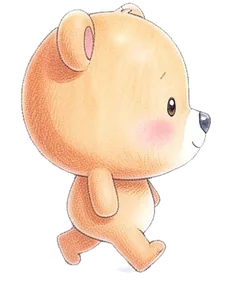
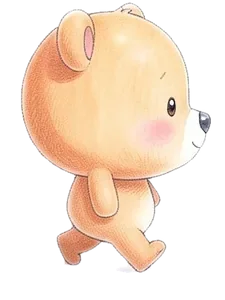
Miniroom: side walk crosses legs (near leg forward, pass, far leg forward, pass)

Changed region(s): [[0.2489, 0.81, 0.4356, 0.9]]

diff --git a/public/js/views.js b/public/js/views.js
@@ -32,31 +32,31 @@ const DRAWN_EYES = {
 // 미니룸 전신 캐릭터: 앞(f)·옆(s, 오른쪽을 봄)·뒤(b) × 서 있기(0)·걷기 두 장(a, b). 모두 같은 캔버스라 바꿔 끼워도 자리가 같다
 //   fit: 앞모습 꾸미기 자리(얼굴 그림과 같은 순서), head: 보기마다 머리 가운데·폭, hand: 보기마다 손 끝 (그림 너비·높이에 대한 비율)
 const MR_BODY = {
-  '🐰': {"w": 184, "h": 300, "img": {"f0": "img/room/c-1f430-f0.webp?v=1126b", "fa": "img/room/c-1f430-fa.webp?v=1126b", "fb": "img/room/c-1f430-fb.webp?v=1126b", "s0": "img/room/c-1f430-s0.webp?v=1126b", "sa": "img/room/c-1f430-sa.webp?v=1126b", "sb": "img/room/c-1f430-sb.webp?v=1126b", "b0": "img/room/c-1f430-b0.webp?v=1126b", "ba": "img/room/c-1f430-ba.webp?v=1126b", "bb": "img/room/c-1f430-bb.webp?v=1126b"}, "fit": [0.512, 0.325, 0.845, 0.514, 0.664], "head": {"front": [0.512, 0.845], "side": [0.546, 0.849], "back": [0.514, 0.841]}, "eyes": [0.314, 0.511, 0.693, 0.51, 0.036], "hand": {"front": [0.932, 0.81], "side": [0.707, 0.81], "back": [0.902, 0.81]}},
-  '🐻': {"w": 223, "h": 300, "img": {"f0": "img/room/c-1f43b-f0.webp?v=1126b", "fa": "img/room/c-1f43b-fa.webp?v=1126b", "fb": "img/room/c-1f43b-fb.webp?v=1126b", "s0": "img/room/c-1f43b-s0.webp?v=1126b", "sa": "img/room/c-1f43b-sa.webp?v=1126b", "sb": "img/room/c-1f43b-sb.webp?v=1126b", "b0": "img/room/c-1f43b-b0.webp?v=1126b", "ba": "img/room/c-1f43b-ba.webp?v=1126b", "bb": "img/room/c-1f43b-bb.webp?v=1126b"}, "fit": [0.479, 0.001, 0.91, 0.374, 0.654], "head": {"front": [0.479, 0.91], "side": [0.484, 0.907], "back": [0.486, 0.896]}, "eyes": [0.311, 0.383, 0.694, 0.379, 0.048], "hand": {"front": [0.918, 0.769], "side": [0.687, 0.769], "back": [0.885, 0.769]}},
-  '🦊': {"w": 238, "h": 300, "img": {"f0": "img/room/c-1f98a-f0.webp?v=1126b", "fa": "img/room/c-1f98a-fa.webp?v=1126b", "fb": "img/room/c-1f98a-fb.webp?v=1126b", "s0": "img/room/c-1f98a-s0.webp?v=1126b", "sa": "img/room/c-1f98a-sa.webp?v=1126b", "sb": "img/room/c-1f98a-sb.webp?v=1126b", "b0": "img/room/c-1f98a-b0.webp?v=1126b", "ba": "img/room/c-1f98a-ba.webp?v=1126b", "bb": "img/room/c-1f98a-bb.webp?v=1126b"}, "fit": [0.529, 0.144, 0.827, 0.45, 0.68], "head": {"front": [0.529, 0.827], "side": [0.613, 0.743], "back": [0.529, 0.827]}, "eyes": [0.386, 0.446, 0.685, 0.44, 0.029], "hand": {"front": [0.874, 0.78], "side": [0.664, 0.78], "back": [0.841, 0.78]}},
-  '🐼': {"w": 229, "h": 300, "img": {"f0": "img/room/c-1f43c-f0.webp?v=1126b", "fa": "img/room/c-1f43c-fa.webp?v=1126b", "fb": "img/room/c-1f43c-fb.webp?v=1126b", "s0": "img/room/c-1f43c-s0.webp?v=1126b", "sa": "img/room/c-1f43c-sa.webp?v=1126b", "sb": "img/room/c-1f43c-sb.webp?v=1126b", "b0": "img/room/c-1f43c-b0.webp?v=1126b", "ba": "img/room/c-1f43c-ba.webp?v=1126b", "bb": "img/room/c-1f43c-bb.webp?v=1126b"}, "fit": [0.519, 0.041, 0.879, 0.376, 0.621], "head": {"front": [0.519, 0.879], "side": [0.539, 0.879], "back": [0.521, 0.876]}, "eyes": [0.351, 0.377, 0.672, 0.377, 0.04], "hand": {"front": [0.932, 0.759], "side": [0.69, 0.759], "back": [0.899, 0.759]}},
-  '🐯': {"w": 237, "h": 300, "img": {"f0": "img/room/c-1f42f-f0.webp?v=1126b", "fa": "img/room/c-1f42f-fa.webp?v=1126b", "fb": "img/room/c-1f42f-fb.webp?v=1126b", "s0": "img/room/c-1f42f-s0.webp?v=1126b", "sa": "img/room/c-1f42f-sa.webp?v=1126b", "sb": "img/room/c-1f42f-sb.webp?v=1126b", "b0": "img/room/c-1f42f-b0.webp?v=1126b", "ba": "img/room/c-1f42f-ba.webp?v=1126b", "bb": "img/room/c-1f42f-bb.webp?v=1126b"}, "fit": [0.514, 0.031, 0.924, 0.361, 0.657], "head": {"front": [0.514, 0.924], "side": [0.498, 0.86], "back": [0.517, 0.924]}, "eyes": [0.354, 0.368, 0.685, 0.361, 0.052], "hand": {"front": [0.885, 0.782], "side": [0.684, 0.782], "back": [0.854, 0.782]}},
-  '🐨': {"w": 276, "h": 300, "img": {"f0": "img/room/c-1f428-f0.webp?v=1126b", "fa": "img/room/c-1f428-fa.webp?v=1126b", "fb": "img/room/c-1f428-fb.webp?v=1126b", "s0": "img/room/c-1f428-s0.webp?v=1126b", "sa": "img/room/c-1f428-sa.webp?v=1126b", "sb": "img/room/c-1f428-sb.webp?v=1126b", "b0": "img/room/c-1f428-b0.webp?v=1126b", "ba": "img/room/c-1f428-ba.webp?v=1126b", "bb": "img/room/c-1f428-bb.webp?v=1126b"}, "fit": [0.495, 0.079, 0.619, 0.4, 0.628], "head": {"front": [0.495, 0.619], "side": [0.629, 0.543], "back": [0.495, 0.615]}, "eyes": [0.351, 0.403, 0.637, 0.401, 0.027], "hand": {"front": [0.774, 0.791], "side": [0.573, 0.791], "back": [0.732, 0.791]}},
-  '🐸': {"w": 316, "h": 300, "img": {"f0": "img/room/c-1f438-f0.webp?v=1126b", "fa": "img/room/c-1f438-fa.webp?v=1126b", "fb": "img/room/c-1f438-fb.webp?v=1126b", "s0": "img/room/c-1f438-s0.webp?v=1126b", "sa": "img/room/c-1f438-sa.webp?v=1126b", "sb": "img/room/c-1f438-sb.webp?v=1126b", "b0": "img/room/c-1f438-b0.webp?v=1126b", "ba": "img/room/c-1f438-ba.webp?v=1126b", "bb": "img/room/c-1f438-bb.webp?v=1126b"}, "fit": [0.495, -0.102, 0.635, 0.132, 0.645], "head": {"front": [0.495, 0.635], "side": [0.53, 0.267], "back": [0.482, 0.672]}, "eyes": [0.281, 0.114, 0.714, 0.114, 0.06], "hand": {"front": [0.839, 0.754], "side": [0.613, 0.754], "back": [0.794, 0.754]}},
-  '🦁': {"w": 219, "h": 300, "img": {"f0": "img/room/c-1f981-f0.webp?v=1126b", "fa": "img/room/c-1f981-fa.webp?v=1126b", "fb": "img/room/c-1f981-fb.webp?v=1126b", "s0": "img/room/c-1f981-s0.webp?v=1126b", "sa": "img/room/c-1f981-sa.webp?v=1126b", "sb": "img/room/c-1f981-sb.webp?v=1126b", "b0": "img/room/c-1f981-b0.webp?v=1126b", "ba": "img/room/c-1f981-ba.webp?v=1126b", "bb": "img/room/c-1f981-bb.webp?v=1126b"}, "fit": [0.495, 0.052, 0.82, 0.399, 0.699], "head": {"front": [0.495, 0.82], "side": [0.471, 0.681], "back": [0.504, 0.805]}, "eyes": [0.363, 0.403, 0.629, 0.402, 0.036], "hand": {"front": [0.882, 0.597], "side": [0.68, 0.597], "back": [0.826, 0.597]}},
-  '🐧': {"w": 254, "h": 300, "img": {"f0": "img/room/c-1f427-f0.webp?v=1126b", "fa": "img/room/c-1f427-fa.webp?v=1126b", "fb": "img/room/c-1f427-fb.webp?v=1126b", "s0": "img/room/c-1f427-s0.webp?v=1126b", "sa": "img/room/c-1f427-sa.webp?v=1126b", "sb": "img/room/c-1f427-sb.webp?v=1126b", "b0": "img/room/c-1f427-b0.webp?v=1126b", "ba": "img/room/c-1f427-ba.webp?v=1126b", "bb": "img/room/c-1f427-bb.webp?v=1126b"}, "fit": [0.482, 0.014, 0.783, 0.345, 0.619], "head": {"front": [0.482, 0.783], "side": [0.516, 0.836], "back": [0.481, 0.78]}, "eyes": [0.303, 0.351, 0.692, 0.346, 0.03], "hand": {"front": [0.956, 0.72], "side": [0.693, 0.72], "back": [0.926, 0.72]}},
-  '🦄': {"w": 240, "h": 300, "img": {"f0": "img/room/c-1f984-f0.webp?v=1126b", "fa": "img/room/c-1f984-fa.webp?v=1126b", "fb": "img/room/c-1f984-fb.webp?v=1126b", "s0": "img/room/c-1f984-s0.webp?v=1126b", "sa": "img/room/c-1f984-sa.webp?v=1126b", "sb": "img/room/c-1f984-sb.webp?v=1126b", "b0": "img/room/c-1f984-b0.webp?v=1126b", "ba": "img/room/c-1f984-ba.webp?v=1126b", "bb": "img/room/c-1f984-bb.webp?v=1126b"}, "fit": [0.45, 0.214, 0.761, 0.487, 0.761], "head": {"front": [0.45, 0.761], "side": [0.47, 0.71], "back": [0.472, 0.693]}, "eyes": [0.3, 0.532, 0.616, 0.52, 0.032], "hand": {"front": [0.813, 0.798], "side": [0.606, 0.798], "back": [0.767, 0.798]}},
+  '🐰': {"w": 184, "h": 300, "img": {"f0": "img/room/c-1f430-f0.webp?v=1126c", "fa": "img/room/c-1f430-fa.webp?v=1126c", "fb": "img/room/c-1f430-fb.webp?v=1126c", "s0": "img/room/c-1f430-s0.webp?v=1126c", "sa": "img/room/c-1f430-sa.webp?v=1126c", "sb": "img/room/c-1f430-sb.webp?v=1126c", "sc": "img/room/c-1f430-sc.webp?v=1126c", "b0": "img/room/c-1f430-b0.webp?v=1126c", "ba": "img/room/c-1f430-ba.webp?v=1126c", "bb": "img/room/c-1f430-bb.webp?v=1126c"}, "fit": [0.512, 0.325, 0.845, 0.514, 0.664], "head": {"front": [0.512, 0.845], "side": [0.546, 0.849], "back": [0.514, 0.841]}, "eyes": [0.314, 0.511, 0.693, 0.51, 0.036], "hand": {"front": [0.932, 0.81], "side": [0.707, 0.81], "back": [0.902, 0.81]}},
+  '🐻': {"w": 223, "h": 300, "img": {"f0": "img/room/c-1f43b-f0.webp?v=1126c", "fa": "img/room/c-1f43b-fa.webp?v=1126c", "fb": "img/room/c-1f43b-fb.webp?v=1126c", "s0": "img/room/c-1f43b-s0.webp?v=1126c", "sa": "img/room/c-1f43b-sa.webp?v=1126c", "sb": "img/room/c-1f43b-sb.webp?v=1126c", "sc": "img/room/c-1f43b-sc.webp?v=1126c", "b0": "img/room/c-1f43b-b0.webp?v=1126c", "ba": "img/room/c-1f43b-ba.webp?v=1126c", "bb": "img/room/c-1f43b-bb.webp?v=1126c"}, "fit": [0.479, 0.001, 0.91, 0.374, 0.654], "head": {"front": [0.479, 0.91], "side": [0.484, 0.907], "back": [0.486, 0.896]}, "eyes": [0.311, 0.383, 0.694, 0.379, 0.048], "hand": {"front": [0.918, 0.769], "side": [0.687, 0.769], "back": [0.885, 0.769]}},
+  '🦊': {"w": 238, "h": 300, "img": {"f0": "img/room/c-1f98a-f0.webp?v=1126c", "fa": "img/room/c-1f98a-fa.webp?v=1126c", "fb": "img/room/c-1f98a-fb.webp?v=1126c", "s0": "img/room/c-1f98a-s0.webp?v=1126c", "sa": "img/room/c-1f98a-sa.webp?v=1126c", "sb": "img/room/c-1f98a-sb.webp?v=1126c", "sc": "img/room/c-1f98a-sc.webp?v=1126c", "b0": "img/room/c-1f98a-b0.webp?v=1126c", "ba": "img/room/c-1f98a-ba.webp?v=1126c", "bb": "img/room/c-1f98a-bb.webp?v=1126c"}, "fit": [0.529, 0.144, 0.827, 0.45, 0.68], "head": {"front": [0.529, 0.827], "side": [0.613, 0.743], "back": [0.529, 0.827]}, "eyes": [0.386, 0.446, 0.685, 0.44, 0.029], "hand": {"front": [0.874, 0.78], "side": [0.664, 0.78], "back": [0.841, 0.78]}},
+  '🐼': {"w": 229, "h": 300, "img": {"f0": "img/room/c-1f43c-f0.webp?v=1126c", "fa": "img/room/c-1f43c-fa.webp?v=1126c", "fb": "img/room/c-1f43c-fb.webp?v=1126c", "s0": "img/room/c-1f43c-s0.webp?v=1126c", "sa": "img/room/c-1f43c-sa.webp?v=1126c", "sb": "img/room/c-1f43c-sb.webp?v=1126c", "sc": "img/room/c-1f43c-sc.webp?v=1126c", "b0": "img/room/c-1f43c-b0.webp?v=1126c", "ba": "img/room/c-1f43c-ba.webp?v=1126c", "bb": "img/room/c-1f43c-bb.webp?v=1126c"}, "fit": [0.519, 0.041, 0.879, 0.376, 0.621], "head": {"front": [0.519, 0.879], "side": [0.539, 0.879], "back": [0.521, 0.876]}, "eyes": [0.351, 0.377, 0.672, 0.377, 0.04], "hand": {"front": [0.932, 0.759], "side": [0.69, 0.759], "back": [0.899, 0.759]}},
+  '🐯': {"w": 237, "h": 300, "img": {"f0": "img/room/c-1f42f-f0.webp?v=1126c", "fa": "img/room/c-1f42f-fa.webp?v=1126c", "fb": "img/room/c-1f42f-fb.webp?v=1126c", "s0": "img/room/c-1f42f-s0.webp?v=1126c", "sa": "img/room/c-1f42f-sa.webp?v=1126c", "sb": "img/room/c-1f42f-sb.webp?v=1126c", "sc": "img/room/c-1f42f-sc.webp?v=1126c", "b0": "img/room/c-1f42f-b0.webp?v=1126c", "ba": "img/room/c-1f42f-ba.webp?v=1126c", "bb": "img/room/c-1f42f-bb.webp?v=1126c"}, "fit": [0.514, 0.031, 0.924, 0.361, 0.657], "head": {"front": [0.514, 0.924], "side": [0.498, 0.86], "back": [0.517, 0.924]}, "eyes": [0.354, 0.368, 0.685, 0.361, 0.052], "hand": {"front": [0.885, 0.782], "side": [0.684, 0.782], "back": [0.854, 0.782]}},
+  '🐨': {"w": 276, "h": 300, "img": {"f0": "img/room/c-1f428-f0.webp?v=1126c", "fa": "img/room/c-1f428-fa.webp?v=1126c", "fb": "img/room/c-1f428-fb.webp?v=1126c", "s0": "img/room/c-1f428-s0.webp?v=1126c", "sa": "img/room/c-1f428-sa.webp?v=1126c", "sb": "img/room/c-1f428-sb.webp?v=1126c", "sc": "img/room/c-1f428-sc.webp?v=1126c", "b0": "img/room/c-1f428-b0.webp?v=1126c", "ba": "img/room/c-1f428-ba.webp?v=1126c", "bb": "img/room/c-1f428-bb.webp?v=1126c"}, "fit": [0.495, 0.079, 0.619, 0.4, 0.628], "head": {"front": [0.495, 0.619], "side": [0.629, 0.543], "back": [0.495, 0.615]}, "eyes": [0.351, 0.403, 0.637, 0.401, 0.027], "hand": {"front": [0.774, 0.791], "side": [0.573, 0.791], "back": [0.732, 0.791]}},
+  '🐸': {"w": 316, "h": 300, "img": {"f0": "img/room/c-1f438-f0.webp?v=1126c", "fa": "img/room/c-1f438-fa.webp?v=1126c", "fb": "img/room/c-1f438-fb.webp?v=1126c", "s0": "img/room/c-1f438-s0.webp?v=1126c", "sa": "img/room/c-1f438-sa.webp?v=1126c", "sb": "img/room/c-1f438-sb.webp?v=1126c", "sc": "img/room/c-1f438-sc.webp?v=1126c", "b0": "img/room/c-1f438-b0.webp?v=1126c", "ba": "img/room/c-1f438-ba.webp?v=1126c", "bb": "img/room/c-1f438-bb.webp?v=1126c"}, "fit": [0.495, -0.102, 0.635, 0.132, 0.645], "head": {"front": [0.495, 0.635], "side": [0.53, 0.267], "back": [0.482, 0.672]}, "eyes": [0.281, 0.114, 0.714, 0.114, 0.06], "hand": {"front": [0.839, 0.754], "side": [0.613, 0.754], "back": [0.794, 0.754]}},
+  '🦁': {"w": 219, "h": 300, "img": {"f0": "img/room/c-1f981-f0.webp?v=1126c", "fa": "img/room/c-1f981-fa.webp?v=1126c", "fb": "img/room/c-1f981-fb.webp?v=1126c", "s0": "img/room/c-1f981-s0.webp?v=1126c", "sa": "img/room/c-1f981-sa.webp?v=1126c", "sb": "img/room/c-1f981-sb.webp?v=1126c", "sc": "img/room/c-1f981-sc.webp?v=1126c", "b0": "img/room/c-1f981-b0.webp?v=1126c", "ba": "img/room/c-1f981-ba.webp?v=1126c", "bb": "img/room/c-1f981-bb.webp?v=1126c"}, "fit": [0.495, 0.052, 0.82, 0.399, 0.699], "head": {"front": [0.495, 0.82], "side": [0.471, 0.681], "back": [0.504, 0.805]}, "eyes": [0.363, 0.403, 0.629, 0.402, 0.036], "hand": {"front": [0.882, 0.597], "side": [0.68, 0.597], "back": [0.826, 0.597]}},
+  '🐧': {"w": 254, "h": 300, "img": {"f0": "img/room/c-1f427-f0.webp?v=1126c", "fa": "img/room/c-1f427-fa.webp?v=1126c", "fb": "img/room/c-1f427-fb.webp?v=1126c", "s0": "img/room/c-1f427-s0.webp?v=1126c", "sa": "img/room/c-1f427-sa.webp?v=1126c", "sb": "img/room/c-1f427-sb.webp?v=1126c", "sc": "img/room/c-1f427-sc.webp?v=1126c", "b0": "img/room/c-1f427-b0.webp?v=1126c", "ba": "img/room/c-1f427-ba.webp?v=1126c", "bb": "img/room/c-1f427-bb.webp?v=1126c"}, "fit": [0.482, 0.014, 0.783, 0.345, 0.619], "head": {"front": [0.482, 0.783], "side": [0.516, 0.836], "back": [0.481, 0.78]}, "eyes": [0.303, 0.351, 0.692, 0.346, 0.03], "hand": {"front": [0.956, 0.72], "side": [0.693, 0.72], "back": [0.926, 0.72]}},
+  '🦄': {"w": 240, "h": 300, "img": {"f0": "img/room/c-1f984-f0.webp?v=1126c", "fa": "img/room/c-1f984-fa.webp?v=1126c", "fb": "img/room/c-1f984-fb.webp?v=1126c", "s0": "img/room/c-1f984-s0.webp?v=1126c", "sa": "img/room/c-1f984-sa.webp?v=1126c", "sb": "img/room/c-1f984-sb.webp?v=1126c", "sc": "img/room/c-1f984-sc.webp?v=1126c", "b0": "img/room/c-1f984-b0.webp?v=1126c", "ba": "img/room/c-1f984-ba.webp?v=1126c", "bb": "img/room/c-1f984-bb.webp?v=1126c"}, "fit": [0.45, 0.214, 0.761, 0.487, 0.761], "head": {"front": [0.45, 0.761], "side": [0.47, 0.71], "back": [0.472, 0.693]}, "eyes": [0.3, 0.532, 0.616, 0.52, 0.032], "hand": {"front": [0.813, 0.798], "side": [0.606, 0.798], "back": [0.767, 0.798]}},
 };
 // 손 아이템을 쥐는 자리 (아이템 그림에 대한 비율, style.css 의 .paw 자리와 같다)
 const MR_GRIP = { 'acc-lollipop': [50, 70], 'acc-wand': [62, 66], 'acc-balloon': [50, 92], 'acc-teddy': [18, 58], 'acc-icecream': [50, 80], 'acc-sunflower': [50, 74], 'acc-bubbles': [14, 88] };
 // 걷기 그림마다: 머리 가운데 x · 머리 꼭대기 y · 머리 폭 · 목 y · 오른쪽 손 끝 x, y · (안 씀) · 왼쪽 손 끝 x, y · 가슴 앞 x · 머리 꼭대기 가운데 x (그림 비율)
 const MR_FRAMES = {
-  '🐰': {"f0": [0.482, 0.31, 0.807, 0.661, 0.921, 0.79, 0.62, 0.037, 0.783, 0.795, 0.479], "fa": [0.485, 0.31, 0.801, 0.661, 0.921, 0.793, 0.62, 0.049, 0.79, 0.795, 0.479], "fb": [0.491, 0.31, 0.801, 0.661, 0.921, 0.787, 0.62, 0.055, 0.787, 0.807, 0.491], "s0": [0.518, 0.31, 0.711, 0.661, 0.812, 0.68, 0.488, 0.158, 0.85, 0.819, 0.521], "sa": [0.515, 0.31, 0.717, 0.661, 0.824, 0.68, 0.506, 0.109, 0.83, 0.825, 0.518], "sb": [0.518, 0.31, 0.711, 0.661, 0.818, 0.68, 0.494, 0.164, 0.827, 0.819, 0.518], "b0": [0.485, 0.317, 0.813, 0.668, 0.921, 0.79, 0.608, 0.043, 0.783, 0.801, 0.479], "ba": [0.485, 0.303, 0.753, 0.654, 0.842, 0.737, 0.524, 0.127, 0.737, 0.813, 0.479], "bb": [0.485, 0.303, 0.753, 0.654, 0.842, 0.73, 0.524, 0.133, 0.73, 0.813, 0.491]},
-  '🐻': {"f0": [0.487, 0.043, 0.796, 0.645, 0.859, 0.733, 0.36, 0.114, 0.733, 0.836, 0.482], "fa": [0.487, 0.043, 0.796, 0.645, 0.859, 0.727, 0.364, 0.136, 0.723, 0.844, 0.484], "fb": [0.511, 0.043, 0.791, 0.645, 0.859, 0.723, 0.364, 0.136, 0.727, 0.844, 0.511], "s0": [0.471, 0.03, 0.711, 0.632, 0.704, 0.72, 0.391, 0.305, 0.713, 0.698, 0.462], "sa": [0.471, 0.03, 0.711, 0.632, 0.744, 0.693, 0.396, 0.261, 0.777, 0.738, 0.464], "sb": [0.471, 0.027, 0.711, 0.628, 0.708, 0.817, 0.4, 0.278, 0.79, 0.707, 0.467], "b0": [0.493, 0.043, 0.782, 0.645, 0.859, 0.733, 0.364, 0.132, 0.737, 0.836, 0.489], "ba": [0.5, 0.04, 0.716, 0.642, 0.828, 0.693, 0.564, 0.198, 0.69, 0.84, 0.602], "bb": [0.496, 0.04, 0.716, 0.642, 0.797, 0.69, 0.564, 0.167, 0.693, 0.813, 0.393]},
-  '🦊': {"f0": [0.531, 0.137, 0.825, 0.675, 0.848, 0.753, 0.825, 0.191, 0.76, 0.834, 0.515], "fa": [0.533, 0.137, 0.821, 0.675, 0.853, 0.767, 0.821, 0.195, 0.74, 0.834, 0.522], "fb": [0.52, 0.137, 0.821, 0.675, 0.857, 0.74, 0.821, 0.204, 0.753, 0.852, 0.531], "s0": [0.555, 0.137, 0.603, 0.675, 0.73, 0.92, 0.397, 0.073, 0.693, 0.729, 0.544], "sa": [0.557, 0.137, 0.598, 0.675, 0.761, 0.717, 0.402, 0.082, 0.693, 0.777, 0.546], "sb": [0.557, 0.137, 0.598, 0.675, 0.739, 0.837, 0.393, 0.248, 0.8, 0.677, 0.546], "b0": [0.531, 0.137, 0.825, 0.675, 0.848, 0.75, 0.825, 0.208, 0.757, 0.834, 0.52], "ba": [0.541, 0.133, 0.803, 0.672, 0.835, 0.727, 0.803, 0.252, 0.727, 0.838, 0.541], "bb": [0.511, 0.133, 0.803, 0.672, 0.8, 0.72, 0.803, 0.217, 0.73, 0.812, 0.511]},
-  '🐼': {"f0": [0.498, 0.053, 0.865, 0.631, 0.915, 0.76, 0.865, 0.081, 0.747, 0.87, 0.495], "fa": [0.498, 0.05, 0.874, 0.628, 0.91, 0.733, 0.874, 0.076, 0.747, 0.874, 0.495], "fb": [0.498, 0.05, 0.874, 0.628, 0.919, 0.747, 0.874, 0.085, 0.733, 0.874, 0.5], "s0": [0.498, 0.013, 0.735, 0.591, 0.761, 0.843, 0.302, 0.22, 0.68, 0.74, 0.514], "sa": [0.498, 0.01, 0.735, 0.588, 0.747, 0.843, 0.274, 0.123, 0.797, 0.721, 0.509], "sb": [0.5, 0.01, 0.721, 0.588, 0.742, 0.843, 0.302, 0.216, 0.817, 0.693, 0.509], "b0": [0.502, 0.06, 0.847, 0.638, 0.877, 0.74, 0.847, 0.127, 0.74, 0.837, 0.5], "ba": [0.502, 0.057, 0.8, 0.634, 0.849, 0.723, 0.8, 0.174, 0.717, 0.833, 0.505], "bb": [0.493, 0.057, 0.8, 0.634, 0.822, 0.717, 0.8, 0.146, 0.723, 0.809, 0.491]},
-  '🐯': {"f0": [0.489, 0.033, 0.827, 0.645, 0.833, 0.753, 0.827, 0.153, 0.75, 0.796, 0.487], "fa": [0.489, 0.033, 0.827, 0.645, 0.842, 0.727, 0.827, 0.162, 0.733, 0.823, 0.489], "fb": [0.507, 0.033, 0.827, 0.645, 0.833, 0.733, 0.827, 0.153, 0.727, 0.81, 0.507], "s0": [0.462, 0.043, 0.704, 0.655, 0.701, 0.743, 0.451, 0.251, 0.827, 0.708, 0.429], "sa": [0.462, 0.043, 0.704, 0.655, 0.705, 0.857, 0.447, 0.242, 0.827, 0.721, 0.431], "sb": [0.462, 0.043, 0.704, 0.655, 0.67, 0.86, 0.451, 0.255, 0.82, 0.677, 0.434], "b0": [0.493, 0.033, 0.827, 0.645, 0.833, 0.747, 0.827, 0.162, 0.76, 0.801, 0.493], "ba": [0.504, 0.023, 0.77, 0.635, 0.82, 0.717, 0.77, 0.211, 0.707, 0.81, 0.507], "bb": [0.491, 0.023, 0.77, 0.635, 0.785, 0.707, 0.77, 0.175, 0.717, 0.779, 0.489]},
-  '🐨': {"f0": [0.491, 0.1, 0.703, 0.614, 0.749, 0.743, 0.703, 0.239, 0.737, 0.707, 0.494], "fa": [0.489, 0.1, 0.699, 0.614, 0.806, 0.69, 0.699, 0.187, 0.7, 0.793, 0.494], "fb": [0.504, 0.1, 0.699, 0.614, 0.806, 0.693, 0.699, 0.19, 0.683, 0.782, 0.498], "s0": [0.5, 0.067, 0.684, 0.581, 0.674, 0.6, 0.32, 0.096, 0.79, 0.628, 0.679], "sa": [0.502, 0.063, 0.68, 0.577, 0.734, 0.69, 0.316, 0.145, 0.77, 0.673, 0.677], "sb": [0.511, 0.06, 0.654, 0.574, 0.614, 0.647, 0.094, 0.172, 0.823, 0.628, 0.585], "b0": [0.489, 0.1, 0.699, 0.614, 0.746, 0.74, 0.699, 0.247, 0.737, 0.711, 0.496], "ba": [0.474, 0.08, 0.571, 0.594, 0.749, 0.69, 0.571, 0.266, 0.693, 0.729, 0.654], "bb": [0.521, 0.08, 0.568, 0.594, 0.727, 0.69, 0.568, 0.243, 0.69, 0.707, 0.34]},
-  '🐸': {"f0": [0.507, 0.113, 0.795, 0.621, 0.94, 0.72, 0.795, 0.082, 0.7, 0.93, 0.502], "fa": [0.507, 0.11, 0.795, 0.618, 0.936, 0.717, 0.795, 0.082, 0.697, 0.921, 0.502], "fb": [0.487, 0.11, 0.79, 0.618, 0.909, 0.693, 0.79, 0.06, 0.703, 0.908, 0.489], "s0": [0.555, 0.113, 0.332, 0.621, 0.748, 0.663, 0.332, 0.165, 0.653, 0.769, 0.524], "sa": [0.557, 0.113, 0.336, 0.621, 0.831, 0.647, 0.336, 0.099, 0.807, 0.856, 0.524], "sb": [0.555, 0.113, 0.332, 0.621, 0.713, 0.833, 0.332, 0.169, 0.64, 0.725, 0.526], "b0": [0.489, 0.107, 0.838, 0.614, 0.918, 0.7, 0.838, 0.099, 0.687, 0.917, 0.487], "ba": [0.483, 0.08, 0.79, 0.588, 0.892, 0.677, 0.79, 0.112, 0.667, 0.886, 0.483], "bb": [0.509, 0.08, 0.79, 0.588, 0.883, 0.68, 0.79, 0.099, 0.677, 0.878, 0.509]},
-  '🦁': {"f0": [0.493, 0.01, 0.959, 0.693, 0.839, 0.773, 0.434, 0.147, 0.757, 0.837, 0.484], "fa": [0.493, 0.01, 0.959, 0.693, 0.853, 0.747, 0.43, 0.156, 0.727, 0.86, 0.486], "fb": [0.505, 0.01, 0.955, 0.693, 0.839, 0.727, 0.43, 0.143, 0.747, 0.86, 0.509], "s0": [0.452, 0.023, 0.688, 0.706, 0.685, 0.743, 0.416, 0.179, 0.84, 0.706, 0.502], "sa": [0.452, 0.023, 0.688, 0.706, 0.704, 0.86, 0.416, 0.165, 0.83, 0.688, 0.502], "sb": [0.448, 0.02, 0.688, 0.703, 0.699, 0.903, 0.416, 0.224, 0.82, 0.665, 0.498], "b0": [0.502, 0.013, 0.941, 0.696, 0.839, 0.787, 0.407, 0.156, 0.77, 0.833, 0.502], "ba": [0.5, 0.01, 0.928, 0.693, 0.812, 0.73, 0.389, 0.211, 0.727, 0.833, 0.502], "bb": [0.495, 0.01, 0.928, 0.693, 0.785, 0.727, 0.389, 0.183, 0.73, 0.805, 0.493]},
-  '🐧': {"f0": [0.498, 0.013, 0.779, 0.628, 0.958, 0.7, 0.379, 0.038, 0.69, 0.962, 0.498], "fa": [0.498, 0.01, 0.762, 0.625, 0.942, 0.657, 0.371, 0.058, 0.657, 0.962, 0.502], "fb": [0.477, 0.01, 0.762, 0.625, 0.917, 0.65, 0.371, 0.038, 0.643, 0.942, 0.477], "s0": [0.485, 0.013, 0.712, 0.628, 0.758, 0.673, 0.396, 0.096, 0.793, 0.779, 0.485], "sa": [0.488, 0.013, 0.708, 0.628, 0.825, 0.65, 0.396, 0.1, 0.79, 0.85, 0.485], "sb": [0.51, 0.013, 0.662, 0.628, 0.737, 0.647, 0.371, 0.188, 0.857, 0.758, 0.506], "b0": [0.496, 0.013, 0.775, 0.628, 0.958, 0.703, 0.371, 0.038, 0.69, 0.958, 0.498], "ba": [0.483, 0.01, 0.658, 0.625, 0.867, 0.643, 0.354, 0.096, 0.643, 0.892, 0.485], "bb": [0.494, 0.01, 0.662, 0.625, 0.879, 0.643, 0.35, 0.108, 0.643, 0.9, 0.492]},
-  '🦄': {"f0": [0.46, 0.01, 0.876, 0.781, 0.807, 0.81, 0.049, 0.122, 0.81, 0.832, 0.454], "fa": [0.46, 0.01, 0.876, 0.781, 0.767, 0.8, 0.049, 0.14, 0.827, 0.774, 0.454], "fb": [0.46, 0.01, 0.876, 0.781, 0.714, 0.87, 0.049, 0.158, 0.8, 0.668, 0.454], "s0": [0.456, 0.01, 0.699, 0.781, 0.661, 0.817, 0.04, 0.286, 0.85, 0.681, 0.781], "sa": [0.456, 0.01, 0.699, 0.781, 0.696, 0.897, 0.044, 0.229, 0.873, 0.642, 0.779], "sb": [0.456, 0.01, 0.699, 0.781, 0.745, 0.877, 0.04, 0.242, 0.863, 0.664, 0.781], "b0": [0.48, 0.013, 0.801, 0.784, 0.789, 0.807, 0.058, 0.175, 0.803, 0.814, 0.467], "ba": [0.48, 0.017, 0.765, 0.788, 0.639, 0.807, 0.053, 0.321, 0.807, 0.659, 0.469], "bb": [0.482, 0.017, 0.77, 0.788, 0.643, 0.807, 0.053, 0.326, 0.807, 0.664, 0.496]},
+  '🐰': {"f0": [0.482, 0.31, 0.807, 0.661, 0.921, 0.79, 0.62, 0.037, 0.783, 0.795, 0.479], "fa": [0.485, 0.31, 0.801, 0.661, 0.921, 0.793, 0.62, 0.049, 0.79, 0.795, 0.479], "fb": [0.491, 0.31, 0.801, 0.661, 0.921, 0.787, 0.62, 0.055, 0.787, 0.807, 0.491], "s0": [0.518, 0.31, 0.711, 0.661, 0.812, 0.68, 0.488, 0.158, 0.85, 0.819, 0.521], "sa": [0.515, 0.31, 0.717, 0.661, 0.824, 0.68, 0.506, 0.109, 0.83, 0.825, 0.518], "sb": [0.518, 0.31, 0.711, 0.661, 0.818, 0.68, 0.494, 0.164, 0.827, 0.819, 0.518], "sc": [0.518, 0.31, 0.711, 0.661, 0.818, 0.68, 0.494, 0.164, 0.827, 0.819, 0.518], "b0": [0.485, 0.317, 0.813, 0.668, 0.921, 0.79, 0.608, 0.043, 0.783, 0.801, 0.479], "ba": [0.485, 0.303, 0.753, 0.654, 0.842, 0.737, 0.524, 0.127, 0.737, 0.813, 0.479], "bb": [0.485, 0.303, 0.753, 0.654, 0.842, 0.73, 0.524, 0.133, 0.73, 0.813, 0.491]},
+  '🐻': {"f0": [0.487, 0.043, 0.796, 0.645, 0.859, 0.733, 0.36, 0.114, 0.733, 0.836, 0.482], "fa": [0.487, 0.043, 0.796, 0.645, 0.859, 0.727, 0.364, 0.136, 0.723, 0.844, 0.484], "fb": [0.511, 0.043, 0.791, 0.645, 0.859, 0.723, 0.364, 0.136, 0.727, 0.844, 0.511], "s0": [0.471, 0.03, 0.711, 0.632, 0.704, 0.72, 0.391, 0.305, 0.713, 0.698, 0.462], "sa": [0.471, 0.03, 0.711, 0.632, 0.744, 0.693, 0.396, 0.261, 0.777, 0.738, 0.464], "sb": [0.471, 0.027, 0.711, 0.628, 0.708, 0.817, 0.4, 0.278, 0.79, 0.707, 0.467], "sc": [0.471, 0.027, 0.711, 0.628, 0.708, 0.817, 0.4, 0.278, 0.79, 0.707, 0.467], "b0": [0.493, 0.043, 0.782, 0.645, 0.859, 0.733, 0.364, 0.132, 0.737, 0.836, 0.489], "ba": [0.5, 0.04, 0.716, 0.642, 0.828, 0.693, 0.564, 0.198, 0.69, 0.84, 0.602], "bb": [0.496, 0.04, 0.716, 0.642, 0.797, 0.69, 0.564, 0.167, 0.693, 0.813, 0.393]},
+  '🦊': {"f0": [0.531, 0.137, 0.825, 0.675, 0.848, 0.753, 0.825, 0.191, 0.76, 0.834, 0.515], "fa": [0.533, 0.137, 0.821, 0.675, 0.853, 0.767, 0.821, 0.195, 0.74, 0.834, 0.522], "fb": [0.52, 0.137, 0.821, 0.675, 0.857, 0.74, 0.821, 0.204, 0.753, 0.852, 0.531], "s0": [0.555, 0.137, 0.603, 0.675, 0.73, 0.92, 0.397, 0.073, 0.693, 0.729, 0.544], "sa": [0.557, 0.137, 0.598, 0.675, 0.761, 0.717, 0.402, 0.082, 0.693, 0.777, 0.546], "sb": [0.557, 0.137, 0.598, 0.675, 0.739, 0.837, 0.393, 0.248, 0.8, 0.677, 0.546], "sc": [0.557, 0.137, 0.598, 0.675, 0.739, 0.837, 0.393, 0.248, 0.8, 0.677, 0.546], "b0": [0.531, 0.137, 0.825, 0.675, 0.848, 0.75, 0.825, 0.208, 0.757, 0.834, 0.52], "ba": [0.541, 0.133, 0.803, 0.672, 0.835, 0.727, 0.803, 0.252, 0.727, 0.838, 0.541], "bb": [0.511, 0.133, 0.803, 0.672, 0.8, 0.72, 0.803, 0.217, 0.73, 0.812, 0.511]},
+  '🐼': {"f0": [0.498, 0.053, 0.865, 0.631, 0.915, 0.76, 0.865, 0.081, 0.747, 0.87, 0.495], "fa": [0.498, 0.05, 0.874, 0.628, 0.91, 0.733, 0.874, 0.076, 0.747, 0.874, 0.495], "fb": [0.498, 0.05, 0.874, 0.628, 0.919, 0.747, 0.874, 0.085, 0.733, 0.874, 0.5], "s0": [0.498, 0.013, 0.735, 0.591, 0.761, 0.843, 0.302, 0.22, 0.68, 0.74, 0.514], "sa": [0.498, 0.01, 0.735, 0.588, 0.747, 0.843, 0.274, 0.123, 0.797, 0.721, 0.509], "sb": [0.5, 0.01, 0.721, 0.588, 0.742, 0.843, 0.302, 0.216, 0.817, 0.693, 0.509], "sc": [0.5, 0.01, 0.721, 0.588, 0.742, 0.843, 0.302, 0.216, 0.817, 0.693, 0.509], "b0": [0.502, 0.06, 0.847, 0.638, 0.877, 0.74, 0.847, 0.127, 0.74, 0.837, 0.5], "ba": [0.502, 0.057, 0.8, 0.634, 0.849, 0.723, 0.8, 0.174, 0.717, 0.833, 0.505], "bb": [0.493, 0.057, 0.8, 0.634, 0.822, 0.717, 0.8, 0.146, 0.723, 0.809, 0.491]},
+  '🐯': {"f0": [0.489, 0.033, 0.827, 0.645, 0.833, 0.753, 0.827, 0.153, 0.75, 0.796, 0.487], "fa": [0.489, 0.033, 0.827, 0.645, 0.842, 0.727, 0.827, 0.162, 0.733, 0.823, 0.489], "fb": [0.507, 0.033, 0.827, 0.645, 0.833, 0.733, 0.827, 0.153, 0.727, 0.81, 0.507], "s0": [0.462, 0.043, 0.704, 0.655, 0.701, 0.743, 0.451, 0.251, 0.827, 0.708, 0.429], "sa": [0.462, 0.043, 0.704, 0.655, 0.705, 0.857, 0.447, 0.242, 0.827, 0.721, 0.431], "sb": [0.462, 0.043, 0.704, 0.655, 0.67, 0.86, 0.451, 0.255, 0.82, 0.677, 0.434], "sc": [0.462, 0.043, 0.704, 0.655, 0.67, 0.86, 0.451, 0.255, 0.82, 0.677, 0.434], "b0": [0.493, 0.033, 0.827, 0.645, 0.833, 0.747, 0.827, 0.162, 0.76, 0.801, 0.493], "ba": [0.504, 0.023, 0.77, 0.635, 0.82, 0.717, 0.77, 0.211, 0.707, 0.81, 0.507], "bb": [0.491, 0.023, 0.77, 0.635, 0.785, 0.707, 0.77, 0.175, 0.717, 0.779, 0.489]},
+  '🐨': {"f0": [0.491, 0.1, 0.703, 0.614, 0.749, 0.743, 0.703, 0.239, 0.737, 0.707, 0.494], "fa": [0.489, 0.1, 0.699, 0.614, 0.806, 0.69, 0.699, 0.187, 0.7, 0.793, 0.494], "fb": [0.504, 0.1, 0.699, 0.614, 0.806, 0.693, 0.699, 0.19, 0.683, 0.782, 0.498], "s0": [0.5, 0.067, 0.684, 0.581, 0.674, 0.6, 0.32, 0.096, 0.79, 0.628, 0.679], "sa": [0.502, 0.063, 0.68, 0.577, 0.734, 0.69, 0.316, 0.145, 0.77, 0.673, 0.677], "sb": [0.511, 0.06, 0.654, 0.574, 0.614, 0.647, 0.094, 0.172, 0.823, 0.628, 0.585], "sc": [0.511, 0.06, 0.654, 0.574, 0.614, 0.647, 0.094, 0.172, 0.823, 0.628, 0.585], "b0": [0.489, 0.1, 0.699, 0.614, 0.746, 0.74, 0.699, 0.247, 0.737, 0.711, 0.496], "ba": [0.474, 0.08, 0.571, 0.594, 0.749, 0.69, 0.571, 0.266, 0.693, 0.729, 0.654], "bb": [0.521, 0.08, 0.568, 0.594, 0.727, 0.69, 0.568, 0.243, 0.69, 0.707, 0.34]},
+  '🐸': {"f0": [0.507, 0.113, 0.795, 0.621, 0.94, 0.72, 0.795, 0.082, 0.7, 0.93, 0.502], "fa": [0.507, 0.11, 0.795, 0.618, 0.936, 0.717, 0.795, 0.082, 0.697, 0.921, 0.502], "fb": [0.487, 0.11, 0.79, 0.618, 0.909, 0.693, 0.79, 0.06, 0.703, 0.908, 0.489], "s0": [0.555, 0.113, 0.332, 0.621, 0.748, 0.663, 0.332, 0.165, 0.653, 0.769, 0.524], "sa": [0.557, 0.113, 0.336, 0.621, 0.831, 0.647, 0.336, 0.099, 0.807, 0.856, 0.524], "sb": [0.555, 0.113, 0.332, 0.621, 0.713, 0.833, 0.332, 0.169, 0.64, 0.725, 0.526], "sc": [0.555, 0.113, 0.332, 0.621, 0.713, 0.833, 0.332, 0.169, 0.64, 0.725, 0.526], "b0": [0.489, 0.107, 0.838, 0.614, 0.918, 0.7, 0.838, 0.099, 0.687, 0.917, 0.487], "ba": [0.483, 0.08, 0.79, 0.588, 0.892, 0.677, 0.79, 0.112, 0.667, 0.886, 0.483], "bb": [0.509, 0.08, 0.79, 0.588, 0.883, 0.68, 0.79, 0.099, 0.677, 0.878, 0.509]},
+  '🦁': {"f0": [0.493, 0.01, 0.959, 0.693, 0.839, 0.773, 0.434, 0.147, 0.757, 0.837, 0.484], "fa": [0.493, 0.01, 0.959, 0.693, 0.853, 0.747, 0.43, 0.156, 0.727, 0.86, 0.486], "fb": [0.505, 0.01, 0.955, 0.693, 0.839, 0.727, 0.43, 0.143, 0.747, 0.86, 0.509], "s0": [0.452, 0.023, 0.688, 0.706, 0.685, 0.743, 0.416, 0.179, 0.84, 0.706, 0.502], "sa": [0.452, 0.023, 0.688, 0.706, 0.704, 0.86, 0.416, 0.165, 0.83, 0.688, 0.502], "sb": [0.448, 0.02, 0.688, 0.703, 0.699, 0.903, 0.416, 0.224, 0.82, 0.665, 0.498], "sc": [0.448, 0.02, 0.688, 0.703, 0.699, 0.903, 0.416, 0.224, 0.82, 0.665, 0.498], "b0": [0.502, 0.013, 0.941, 0.696, 0.839, 0.787, 0.407, 0.156, 0.77, 0.833, 0.502], "ba": [0.5, 0.01, 0.928, 0.693, 0.812, 0.73, 0.389, 0.211, 0.727, 0.833, 0.502], "bb": [0.495, 0.01, 0.928, 0.693, 0.785, 0.727, 0.389, 0.183, 0.73, 0.805, 0.493]},
+  '🐧': {"f0": [0.498, 0.013, 0.779, 0.628, 0.958, 0.7, 0.379, 0.038, 0.69, 0.962, 0.498], "fa": [0.498, 0.01, 0.762, 0.625, 0.942, 0.657, 0.371, 0.058, 0.657, 0.962, 0.502], "fb": [0.477, 0.01, 0.762, 0.625, 0.917, 0.65, 0.371, 0.038, 0.643, 0.942, 0.477], "s0": [0.485, 0.013, 0.712, 0.628, 0.758, 0.673, 0.396, 0.096, 0.793, 0.779, 0.485], "sa": [0.488, 0.013, 0.708, 0.628, 0.825, 0.65, 0.396, 0.1, 0.79, 0.85, 0.485], "sb": [0.51, 0.013, 0.662, 0.628, 0.737, 0.647, 0.371, 0.188, 0.857, 0.758, 0.506], "sc": [0.51, 0.013, 0.662, 0.628, 0.737, 0.647, 0.371, 0.188, 0.857, 0.758, 0.506], "b0": [0.496, 0.013, 0.775, 0.628, 0.958, 0.703, 0.371, 0.038, 0.69, 0.958, 0.498], "ba": [0.483, 0.01, 0.658, 0.625, 0.867, 0.643, 0.354, 0.096, 0.643, 0.892, 0.485], "bb": [0.494, 0.01, 0.662, 0.625, 0.879, 0.643, 0.35, 0.108, 0.643, 0.9, 0.492]},
+  '🦄': {"f0": [0.46, 0.01, 0.876, 0.781, 0.807, 0.81, 0.049, 0.122, 0.81, 0.832, 0.454], "fa": [0.46, 0.01, 0.876, 0.781, 0.767, 0.8, 0.049, 0.14, 0.827, 0.774, 0.454], "fb": [0.46, 0.01, 0.876, 0.781, 0.714, 0.87, 0.049, 0.158, 0.8, 0.668, 0.454], "s0": [0.456, 0.01, 0.699, 0.781, 0.661, 0.817, 0.04, 0.286, 0.85, 0.681, 0.781], "sa": [0.456, 0.01, 0.699, 0.781, 0.696, 0.897, 0.044, 0.229, 0.873, 0.642, 0.779], "sb": [0.456, 0.01, 0.699, 0.781, 0.745, 0.877, 0.04, 0.242, 0.863, 0.664, 0.781], "sc": [0.456, 0.01, 0.699, 0.781, 0.745, 0.877, 0.04, 0.242, 0.863, 0.664, 0.781], "b0": [0.48, 0.013, 0.801, 0.784, 0.789, 0.807, 0.058, 0.175, 0.803, 0.814, 0.467], "ba": [0.48, 0.017, 0.765, 0.788, 0.639, 0.807, 0.053, 0.321, 0.807, 0.659, 0.469], "bb": [0.482, 0.017, 0.77, 0.788, 0.643, 0.807, 0.053, 0.326, 0.807, 0.664, 0.496]},
 };
 // 귀(뿔·눈) 사이 머리 꼭대기 폭 (머리 폭에 대한 비율): 머리에 쓰는 것은 이 폭에 맞춰 귀 사이에 쓴다
 const MR_GAP = { '🐰': .5, '🐻': .6, '🦊': .5, '🐼': .58, '🐯': .58, '🐨': .55, '🐸': .45, '🦁': .58, '🐧': .62, '🦄': .55 };
@@ -2223,13 +2223,14 @@ Views.room = el => {
     a.el.classList.toggle('walking', a.walk);
     if (a === me) cEl.classList.toggle('near', me.view === 's' && me.dir < 0); // 왼쪽을 보고 걸으면 아이템을 든 손이 앞쪽에 온다
   };
-  // 걷는 쪽에 따라 앞·옆·뒷모습. 앞·뒤는 한 발 → 모음 → 다른 발 → 모음, 옆은 두 장을 번갈아. 발을 모을 때 몸이 살짝 올라간다. 멈추면 앞을 보고 선다
-  const CYCLE = { f: ['a', '0', 'b', '0'], b: ['a', '0', 'b', '0'], s: ['a', 'b'] };
+  // 걷는 쪽에 따라 앞·옆·뒷모습. 앞·뒤는 한 발 → 모음 → 다른 발 → 모음. 옆은 다리를 교차하며: 가까운 다리 앞(b) → 두 다리 스침(a) → 먼 다리 앞(c) → 스침(a).
+  // 두 다리가 스칠 때(발을 모을 때) 몸이 살짝 올라간다. 멈추면 앞을 보고 선다. 친구는 옆걸음 두 장을 번갈아
+  const CYCLE = { f: ['a', '0', 'b', '0'], b: ['a', '0', 'b', '0'], s: ['b', 'a', 'c', 'a'] }, PET_CYCLE = { ...CYCLE, s: ['a', 'b'] };
   const pose = now => {
     let key = 'f0', up = 0;
     if (me.walk && me.mvx !== undefined) {
-      const v = Math.abs(me.mvy) > Math.abs(me.mvx) * 1.1 ? (me.mvy < 0 ? 'b' : 'f') : 's', c = CYCLE[v], f = c[Math.floor(now / (v === 's' ? 190 : 150)) % c.length];
-      key = v + f; up = (f === '0' || (v === 's' && f === 'b')) ? .018 : 0;
+      const v = Math.abs(me.mvy) > Math.abs(me.mvx) * 1.1 ? (me.mvy < 0 ? 'b' : 'f') : 's', c = CYCLE[v], f = c[Math.floor(now / 150) % c.length];
+      key = v + f; up = (f === '0' || (v === 's' && f === 'a')) ? .018 : 0;
     }
     if (key !== me.frame || up !== me.up) { me.frame = key; me.up = up; me.view = key[0]; mrFrame(cEl, p.avatar, key, up); }
   };
@@ -2239,7 +2240,7 @@ Views.room = el => {
   const petPose = now => {
     if (!petImg) return;
     let key = 'f0';
-    if (fr.walk && fr.mvx !== undefined) { const v = Math.abs(fr.mvy) > Math.abs(fr.mvx) * 1.1 ? (fr.mvy < 0 ? 'b' : 'f') : 's', c = CYCLE[v]; key = v + c[Math.floor(now / (v === 's' ? 160 : 130)) % c.length]; }
+    if (fr.walk && fr.mvx !== undefined) { const v = Math.abs(fr.mvy) > Math.abs(fr.mvx) * 1.1 ? (fr.mvy < 0 ? 'b' : 'f') : 's', c = PET_CYCLE[v]; key = v + c[Math.floor(now / (v === 's' ? 160 : 130)) % c.length]; }
     fr.view = key[0]; if (key !== fr.frame) { fr.frame = key; petImg.src = mrPetImg(pet.emoji, key); }
   };
   let sayT = null;
